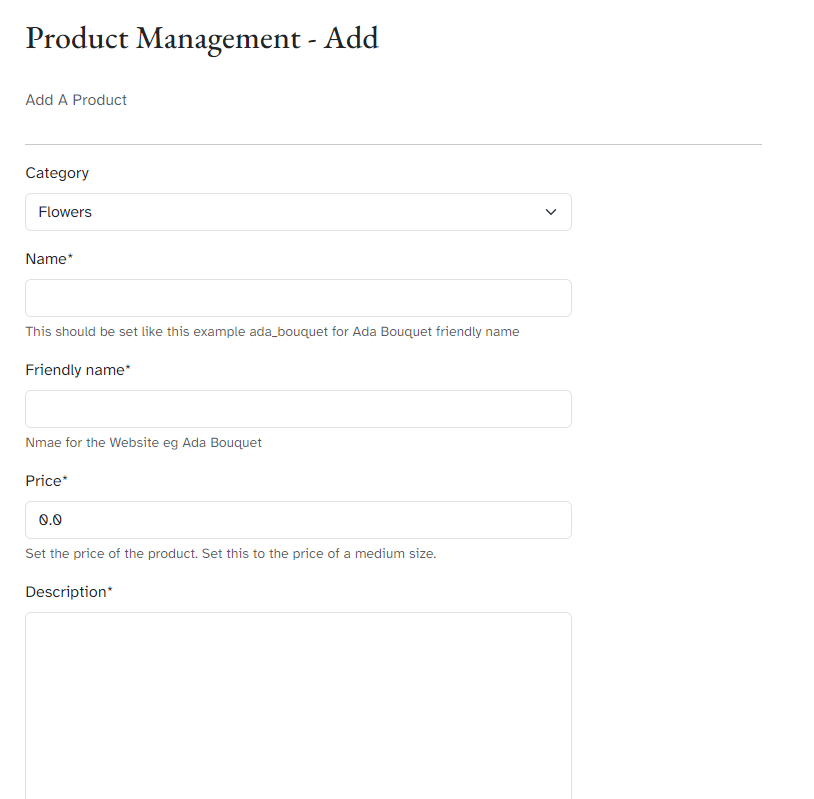
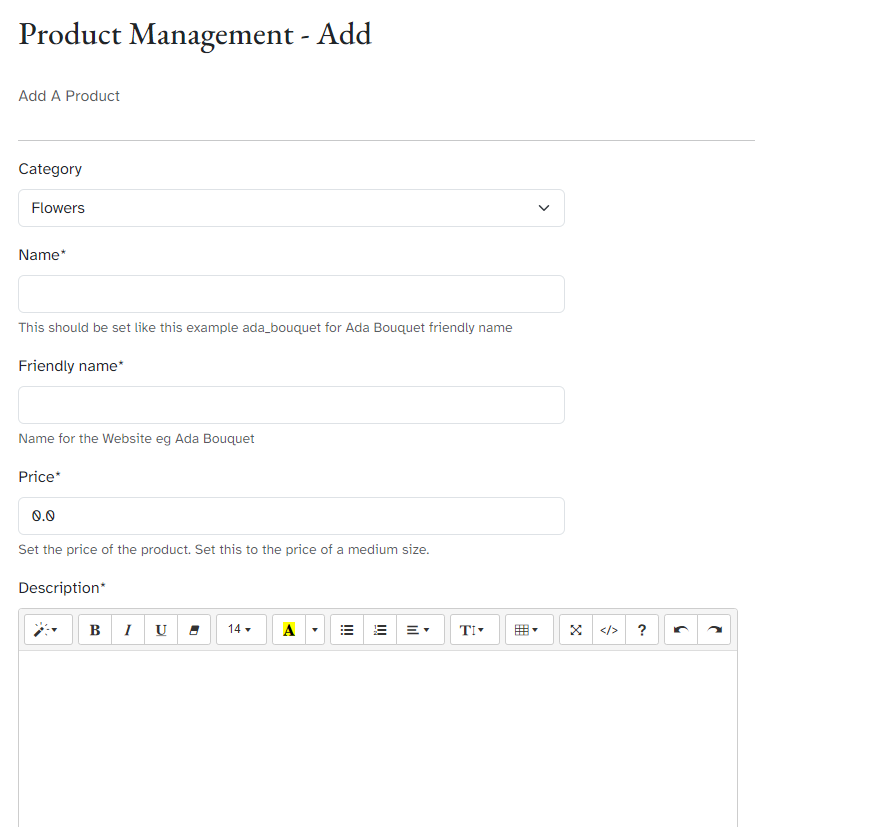
Readme Products App and Shop with Toast information.

diff --git a/README.md b/README.md
@@ -403,19 +403,50 @@ Wireframe Alterations:
 
 ### Features
 
-#### All Pages
+<details><summary>All Pages</summary>
+
+**-Forms**
 
 All forms across the site utlilise crispy forms to render content, ensuring a consistent and visually appealing user interface. These inputs come with added functionality, including dynamic feedback and validation promts (e.g email address need @) to aid users when they have made a mistake with a form, promoting data accuracy and submission reliability. 
 
 Furthermore, custom programming has been implemented to ensure all form elements are valid and do contain only whitespace (where this is applicable). In instances where input is missing, clear messages prompt users to fill in the required fields or make necessary modifications, facilitating form completion. 
 
+In the Products and Blog apps, product descriptions and blog article bodies are created using Summernote, a powerful rich text editor. Summernote facilitates the inclusion of formatted text to enhance the presentation of content. To maintain consistency and correctness in the site's appearance, the ability to add images or other media through Summernote has been disabled. Additionally, the editor's styling is configured to align with the site's font styles for a seamless visual integration.
+
+**-Buttons, links etc**
+
 All buttons/links change colour when they are hovered over to imporve the user experience.
 
 For adding, editing, and deleting functions accessible to superusers, a consistent and recognisable color scheme is employed for buttons. Green buttons/text are used for adding and editing functionalities, indicating positive actions. Red buttons/text are designated for deleting actions, signaling caution and the potential for irreversible changes. This color-coding enhances usability by providing clear visual cues and reducing the risk of accidental operations.
 
-### All Users
+**-Toasts**
 
-<details><summary>base.html and navbar.html</summary>
+Toasts are small, unobtrusive messages that appear on the screen to convey feedback or updates. The site utilises Bootstrap toasts to notify users when necessary. The default Bootstrap toast design has been customised to match the app’s visual theme, ensuring a cohesive user experience. Toasts are automatically positioned and timed to ensure they do not disrupt the user’s interaction with the site, and they can be dismissed manually if desired.
+
+The site employs three types of toasts: success, info, and error. Each type corresponds to different actions or notifications:
+
+The triggering of these toasts is managed within the view logic, ensuring that users receive timely and relevant notifications based on their interactions with the site.
+
+* Success Toast - To enhance the user experience, the success toast provides feedback on the successful completion of an action (e.g adding an item to the database, adding a variant, deleting a item, removing an item from the bag). It has a green banner to signify good, success etc. 
+
+    ![success toast nobag](documentation/final/toast-success-removal.PNG)
+
+    It not only confirms the successful action but also includes a visual representation of the basket (if items are present or have just been added). 
+
+    ![success toast bag](documentation/final/toast-success-bagitem.PNG)
+
+    The basket information informs the user on the number of items in their basket and lists the differnt products, then events and their grand total. A scroll bar allows users to review these details easily within the toast. If items are in the basket the success toast also includes quick links, allowing users to navigate directly to the checkout page or to view more details in their basket. This helps users swiftly proceed with their shopping experience if they wish. 
+
+* Info: Provides informational updates or reminders. This appears like a success toast but does not contain any bag information and has a blue, informative colour. 
+
+    ![info toast blog](documentation/final/toast-info.PNG)
+
+
+* Error: Alerts users to issues or problems that need attention. These messages have a red, warming colour associated to them. 
+
+</details>
+
+<details><summary>Base (base.html and navbar.html)</summary>
 
 
 **Base.html**
@@ -501,38 +532,55 @@ The landing page is designed to immediately convey the purpose of the site and w
 
 </details>
 
-<details><summary>Shop (shop.html)</summary>
+<details><summary>Shop (shop app, shop.html)</summary>
 
-The shop page serves as a central hub where users can browse through the products offered by The Meadow Project. The opening paragraph highlights the site's commitment to quality and flexibility, aiming to entice users and encourage purchases. Users can explore the shop in several ways:
-
-1. Browse all products. 
+![shop.html](documentation/final/shop-screens.PNG)
 
 
+The shop page serves as a central hub where users can browse through the products offered by The Meadow Project. The opening paragraph highlights the site's commitment to quality and flexibility, aiming to entice users and encourage purchases.
 
+Initially, both products and events are displayed together, showcasing all items available in the shop. Each item is presented with its image, name (friendly), and price (will be medium for products) in a clean, easy-to-read format.
 
+Users can explore the shop in several ways:
 
+1. Browse All Products. 
 
+2. Select a Specific Category
+Users can select a category from the sub-navigation menu, which includes the options All, Flowers, Plants, Gift Cards, or Events. Selecting a category will display only the items that fall under the chosen category. Additionally, users will see a notification indicating the number of items available in the selected category.
 
-<summary>Products app</summary>
+3. Search for Specific Products or Keywords
+Users can search for products or keywords (e.g., "roses") using the search feature located in the navigation bar. Entering a keyword will return all items that match the search criteria in their description or title. After performing a search, users will be informed of the number of matching products and the keyword used. There will also be an option to clear the search results and start a new search.
+
+![rose search](documentation/final/roses-search.PNG)
+
+Users can then sort their renderec content by Price (low to high, or high to low) and Name (A-Z or Z-A)
+
+![rose search sort](documentation/final/roses-search-sort.png)
+
+Clicking on each shop items image/name will redirect the user to the product/event detail page ( using the UUID). 
+</details>
+
+<details><summary>Products and Events (Products app)</summary>
 
 The Products app is responsible for all details associated with the products and events found within the shop.
+The product/event detail pages display the content associated to a specific product/event (directed from the shop page) in a user-friendly and visually appealing format. This page also displays the order form for the user to add an item to their basket. If users click on the image, it opens a new tab with an enlarged version of the image.
 
-Selecting a product/event from the shop will render the corresponding product detail/event detail page (product_detail.html, event_detail.html), based on the UUID. This page displays all associated content in a user-friendly and visually appealing format.
+* Product detail page for a regular user:
+    ![products user](documentation/final/product-detail-user.PNG)
 
-![products user](documentation/final/product-detail-user.PNG)
-![event superuser](documentation/final/event-detail-superuser.PNG)
+    Users can view the delivery info for products if they wish by clicking the 'Delivery Info' button, which opens a modal. 
 
-Users can also view the delivery info for products if they wish by clicking the 'Delivery Info' button, which opens a modal. 
+    ![products deliveryinfo](documentation/final/products-deliveryinfo.PNG)
 
-![products deliveryinfo](documentation/final/products-deliveryinfo.PNG)
+* Event detail page for a super user:
+    ![event superuser](documentation/final/event-detail-superuser.PNG)
 
-**Adding Products and Events to the Site**
+
+**Adding Products and Events to the Site - Superuser Only**
 
 (add_event.html, add_product_variant.htmk, add_product.html,)
 
 Products and Events can be added to the site by Django superusers via the Django admin panel or through the main website. Links to add a product or an event are available in both the user's profile (TMP Management) and on the main Shop page.
-
-**Products**
 
 **Adding Products**
 
@@ -548,35 +596,26 @@ The Product form rendered allows the superuser to set:
 * Description: A detailed description of the product to provide customers with more information.
 * Image: The image associated with the product. 
 * Image Alt Text: Provides descriptive text for the image.
-* Is gift Card Checkbox: This 
+* Is gift Card Checkbox: This allows the rendering of conditional content/features that are associated with gift cards/other products only (see below).
 * Is Active Checkbox: This feature allows the admin to temporarily remove a product from the site without deleting it from the database. For instance, if a product is out of stock or needs to be paused for any reason, the admin can uncheck this box to make it inactive. The product remains in the database and can be reactivated easily at a later date, ensuring flexibility and ease of management.
 
 Helper text is inlcuded where the user might need more information on how to set a specific field and required fields are denoted by an * 
 
-After adding a product, the superuser is prompted (via an info toast) to create product variants. This step is crucial as the displayed price on the site is determined by the product variants, not the base price in the database. Initially, the price will read 'None' until variants are created and configured.
+After adding a product, the superuser is prompted (via an success toast) to create product variants. This step is crucial as the displayed price on the site is determined by the product variants, not the base price in the database. Initially, the price will read 'None' until variants are created and configured.
 
 ![products add vairants](documentation/final/products-nowaddvariants.PNG)
 
-Variants are added by clicking the 'Add Variant' link. Options include Small, Medium, or Large. Each variant can be added only once; attempting to add an existing variant results in an error message, preventing duplicate entries..
+Variants are added by clicking the 'Add Variant' link. Options include Small, Medium, or Large. For gift cards, the choices are labeled as Option 1, Option 2, and Option 3. Each variant can be added only once; attempting to add an existing variant results in an error message, preventing duplicate entries..
 
 ![variant error](documentation/final/products-variant-error.PNG)
 
-After a variant is added, it and its corresponding price will be displayed on the product detail page. By default, the price of the Medium variant will be shown. If the Medium variant does not exist, the price of another available variant will be displayed instead. The price field updates automatically based on the user's selection when adding a product to their basket.
+After a variant is added, it and its corresponding price will be displayed on the product detail page. By default, the price of the Medium/Option 2 variant will be shown. If the Medium variant does not exist, the price of another available variant will be displayed instead. The price display updates automatically based on the user's selection when adding a product to their basket. 
 
-
-**Adding a Product to the Basket**
-
-To add a product to their basket, users need to click the 'Add to Basket' button. They can select the desired size using the dropdown selection box, which displays the available product variants. The price of the product updates to reflect their choice.
-
-![product variant dropdown](documentation/final/product-add-dropdown.png)
-
-Users also have the option to include an card message and a note to the seller if they need to communicate specific instructions (e.g., "No yellow flowers in the bouquet"). Additionally, they can adjust the quantity of each item being added by modifying the quantity selection box which has been customised and enlargend to match the site and improve UX.
-
-After successfully adding a product to their basket, users receive a notification confirming the addition (See ???????toast success????). They can return to the shop by clicking the 'Keep Shopping' button or using the pagination links at the top of the page.
-
-**Events** 
+In the item's description, a conditional paragraph is displayed based on whether the item is a gift card. This provides users with relevant, generic information tailored to the type of item they are viewing. This setting. The 'is gift card' setting not only adjusts the descriptive content but also ensures that the item image is formatted correctly, accommodating different orientations such as portrait or landscape.
 
 **Adding Events** 
+
+![event add](documentation/final/event-add.PNG)
 
 The Event form rendered allows the superuser to set:
 
@@ -585,16 +624,13 @@ The Event form rendered allows the superuser to set:
 * Friendly Name: Used for display purposes on the site. 
 * Event Date and Time: Set using a date and time box.
 * Duration: Specifies how long the event lasts (hours) 
-* Price: The initial price of the event.
-* Description: A detailed description of the product to provide customers with more information.
+* Price: The price of the event.
+* Description: A detailed description of the event to provide customers with more information.
 * Image: The image associated with the product. 
 * Image Alt Text: Provides descriptive text for the image.
 * Is Active Checkbox: As above for products. 
 
 Helper text is inlcuded where the user might need more information on how to set a specific field and required fields are denoted by an * 
-
-
-
 
 **Edit/Delete Products, Events and Product Variants**
 
@@ -621,6 +657,23 @@ Before a product/event is deleted the user is given a warning message to confirm
 
 Note, non superusers do not see any of the features to add/delete/edit products or variants
 
+**Adding Items to the Basket**
+
+**Products**
+
+To add a product to their basket, users need to click the 'Add to Basket' button at the end of the product order form. They can select the desired size using the dropdown selection box, which displays the available product variants. The price of the product updates to reflect their choice.
+
+![product variant dropdown](documentation/final/product-add-dropdown.png)
+
+Users also have the option to include an card message and a note to the seller if they need to communicate specific instructions (e.g., "No yellow flowers in the bouquet"). Additionally, they can adjust the quantity of each item being added by modifying the quantity selection box which has been customised and enlargend to match the site and improve UX.
+
+**Events**
+
+To add an event to their basket, users should click the 'Add to Basket' button located at the end of the event order form. Users need to enter the names of the attendees and have the option to add a note for the host. Similar to product orders, the quantity can be adjusted by typing directly into the box or by using the customized + and - buttons.
+
+**Both**
+
+After successfully adding a product or event to their basket, users receive a notification confirming the addition (See ???????toast success????). They can return to the shop by clicking the 'Keep Shopping' button or using the breadcrumb links (customised from Bootstrap) at the top of the page.
 
 </details>
 
